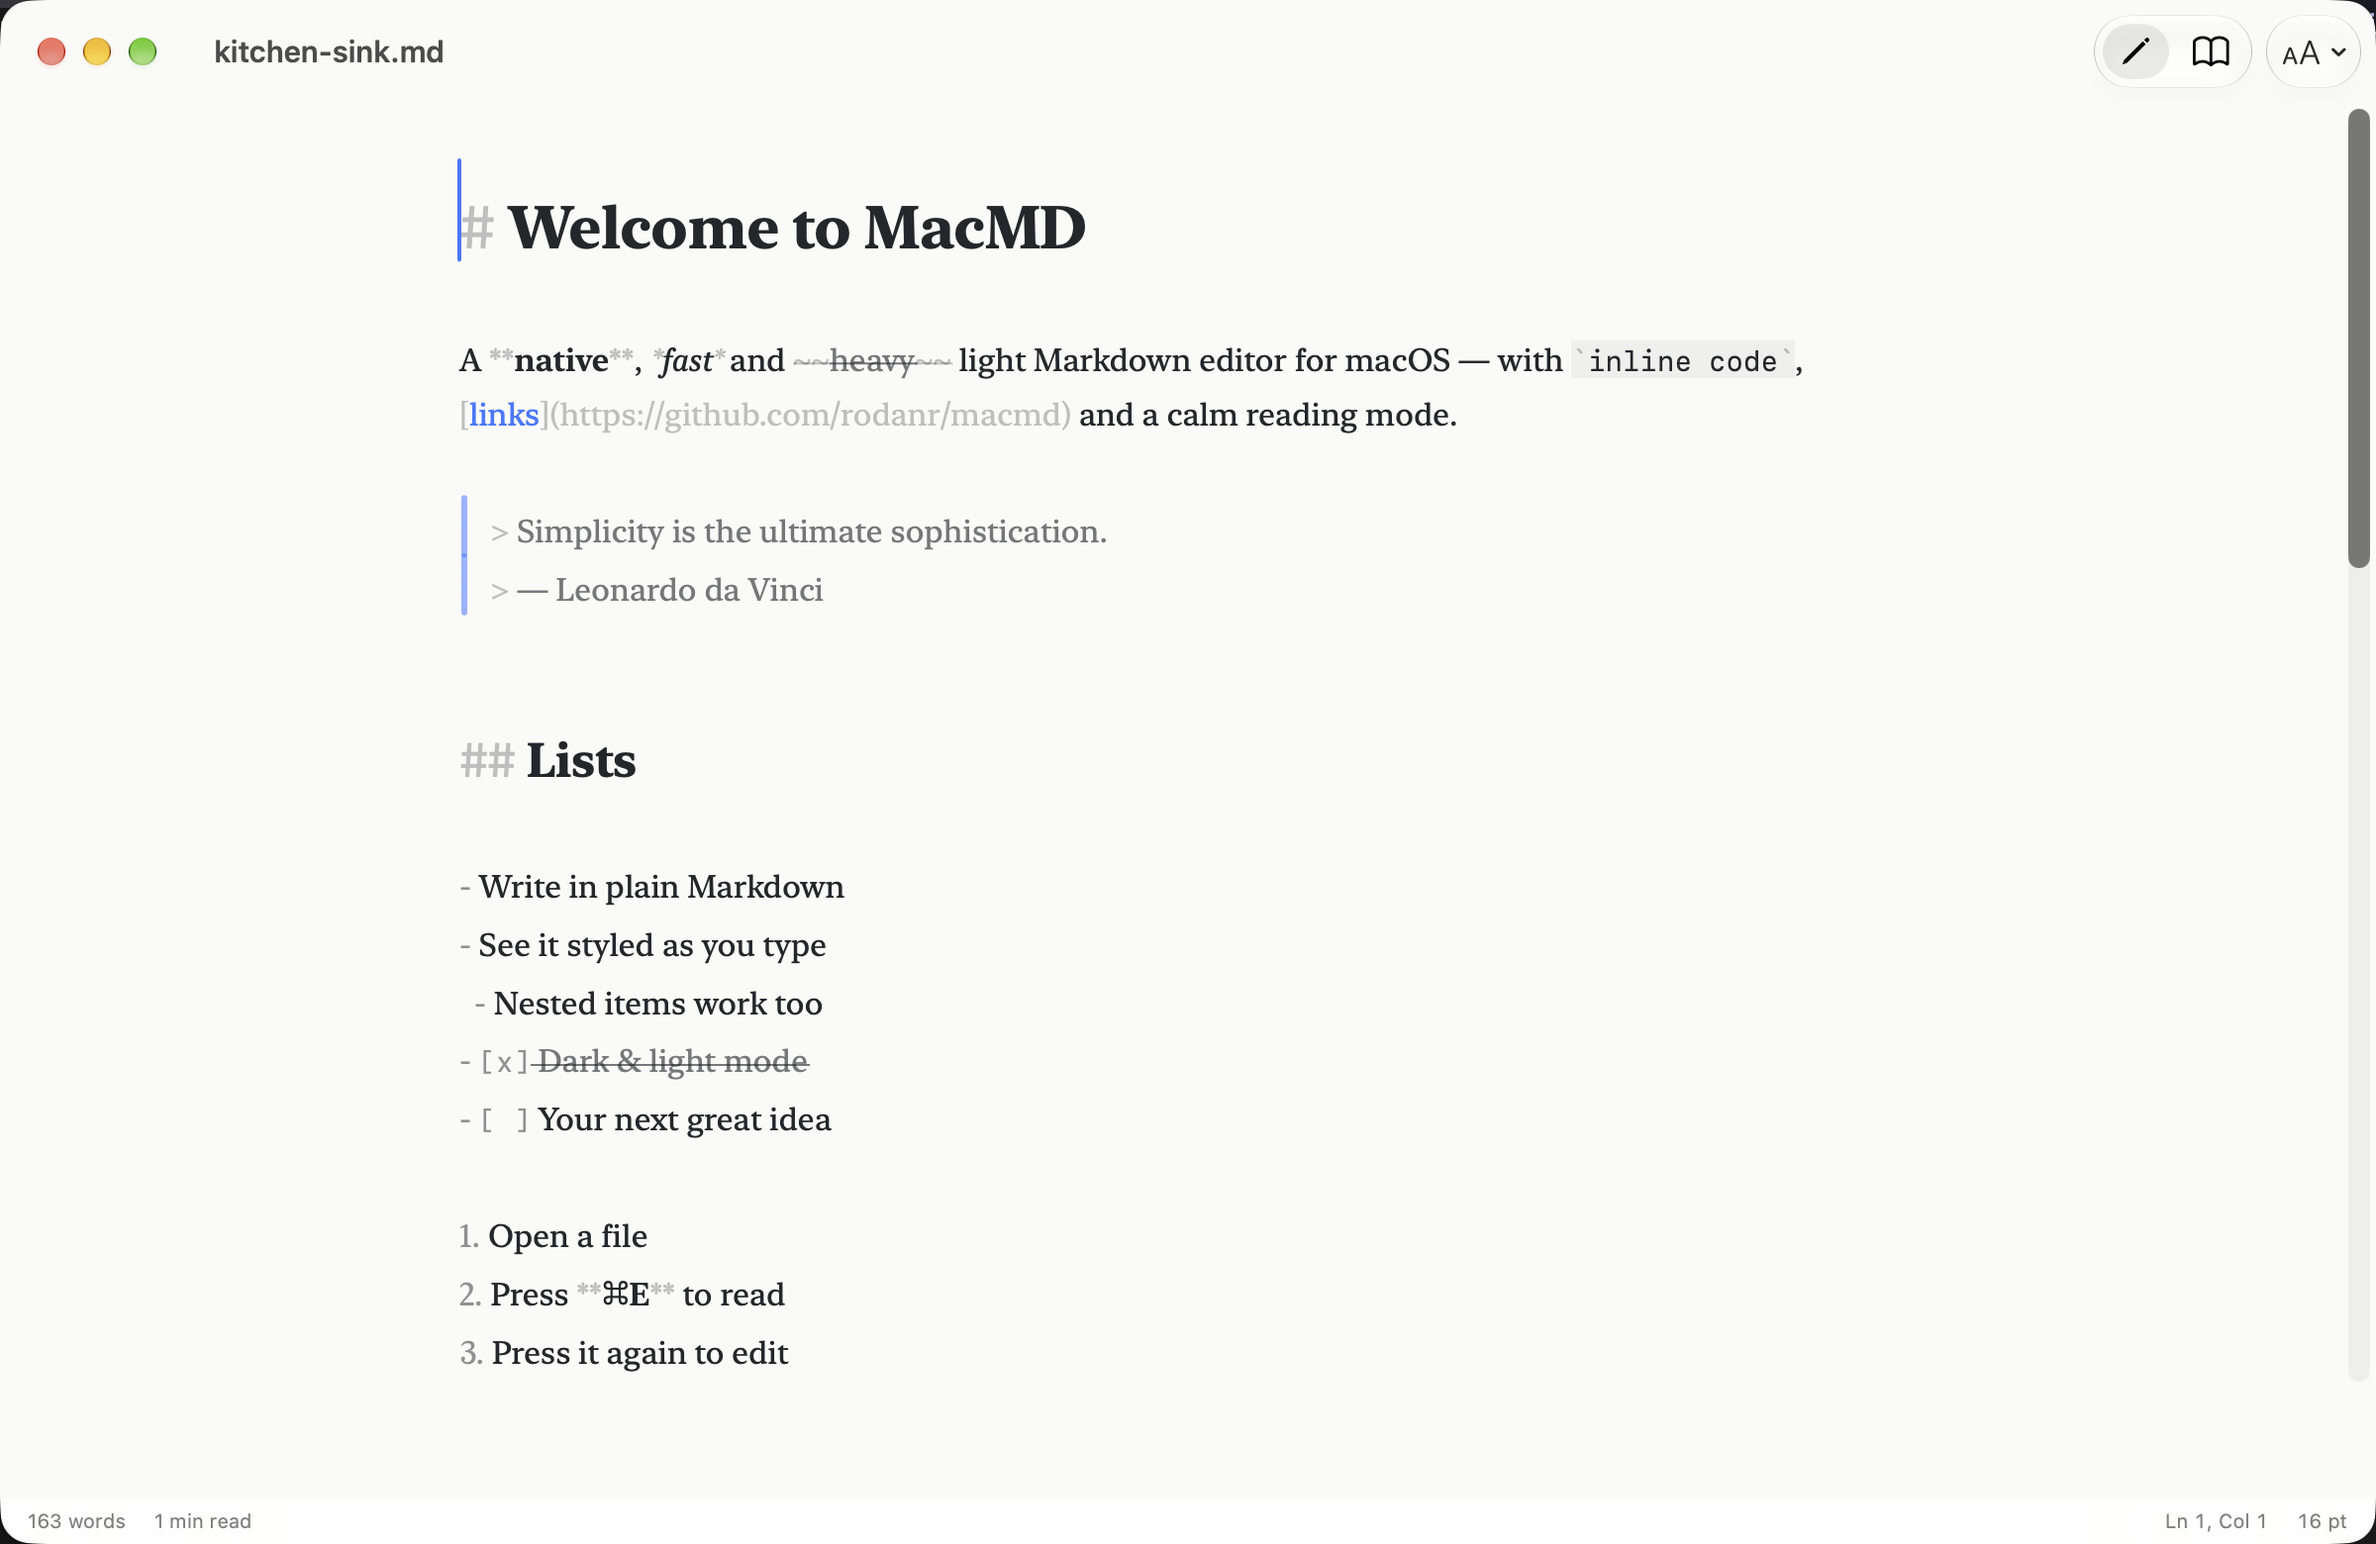
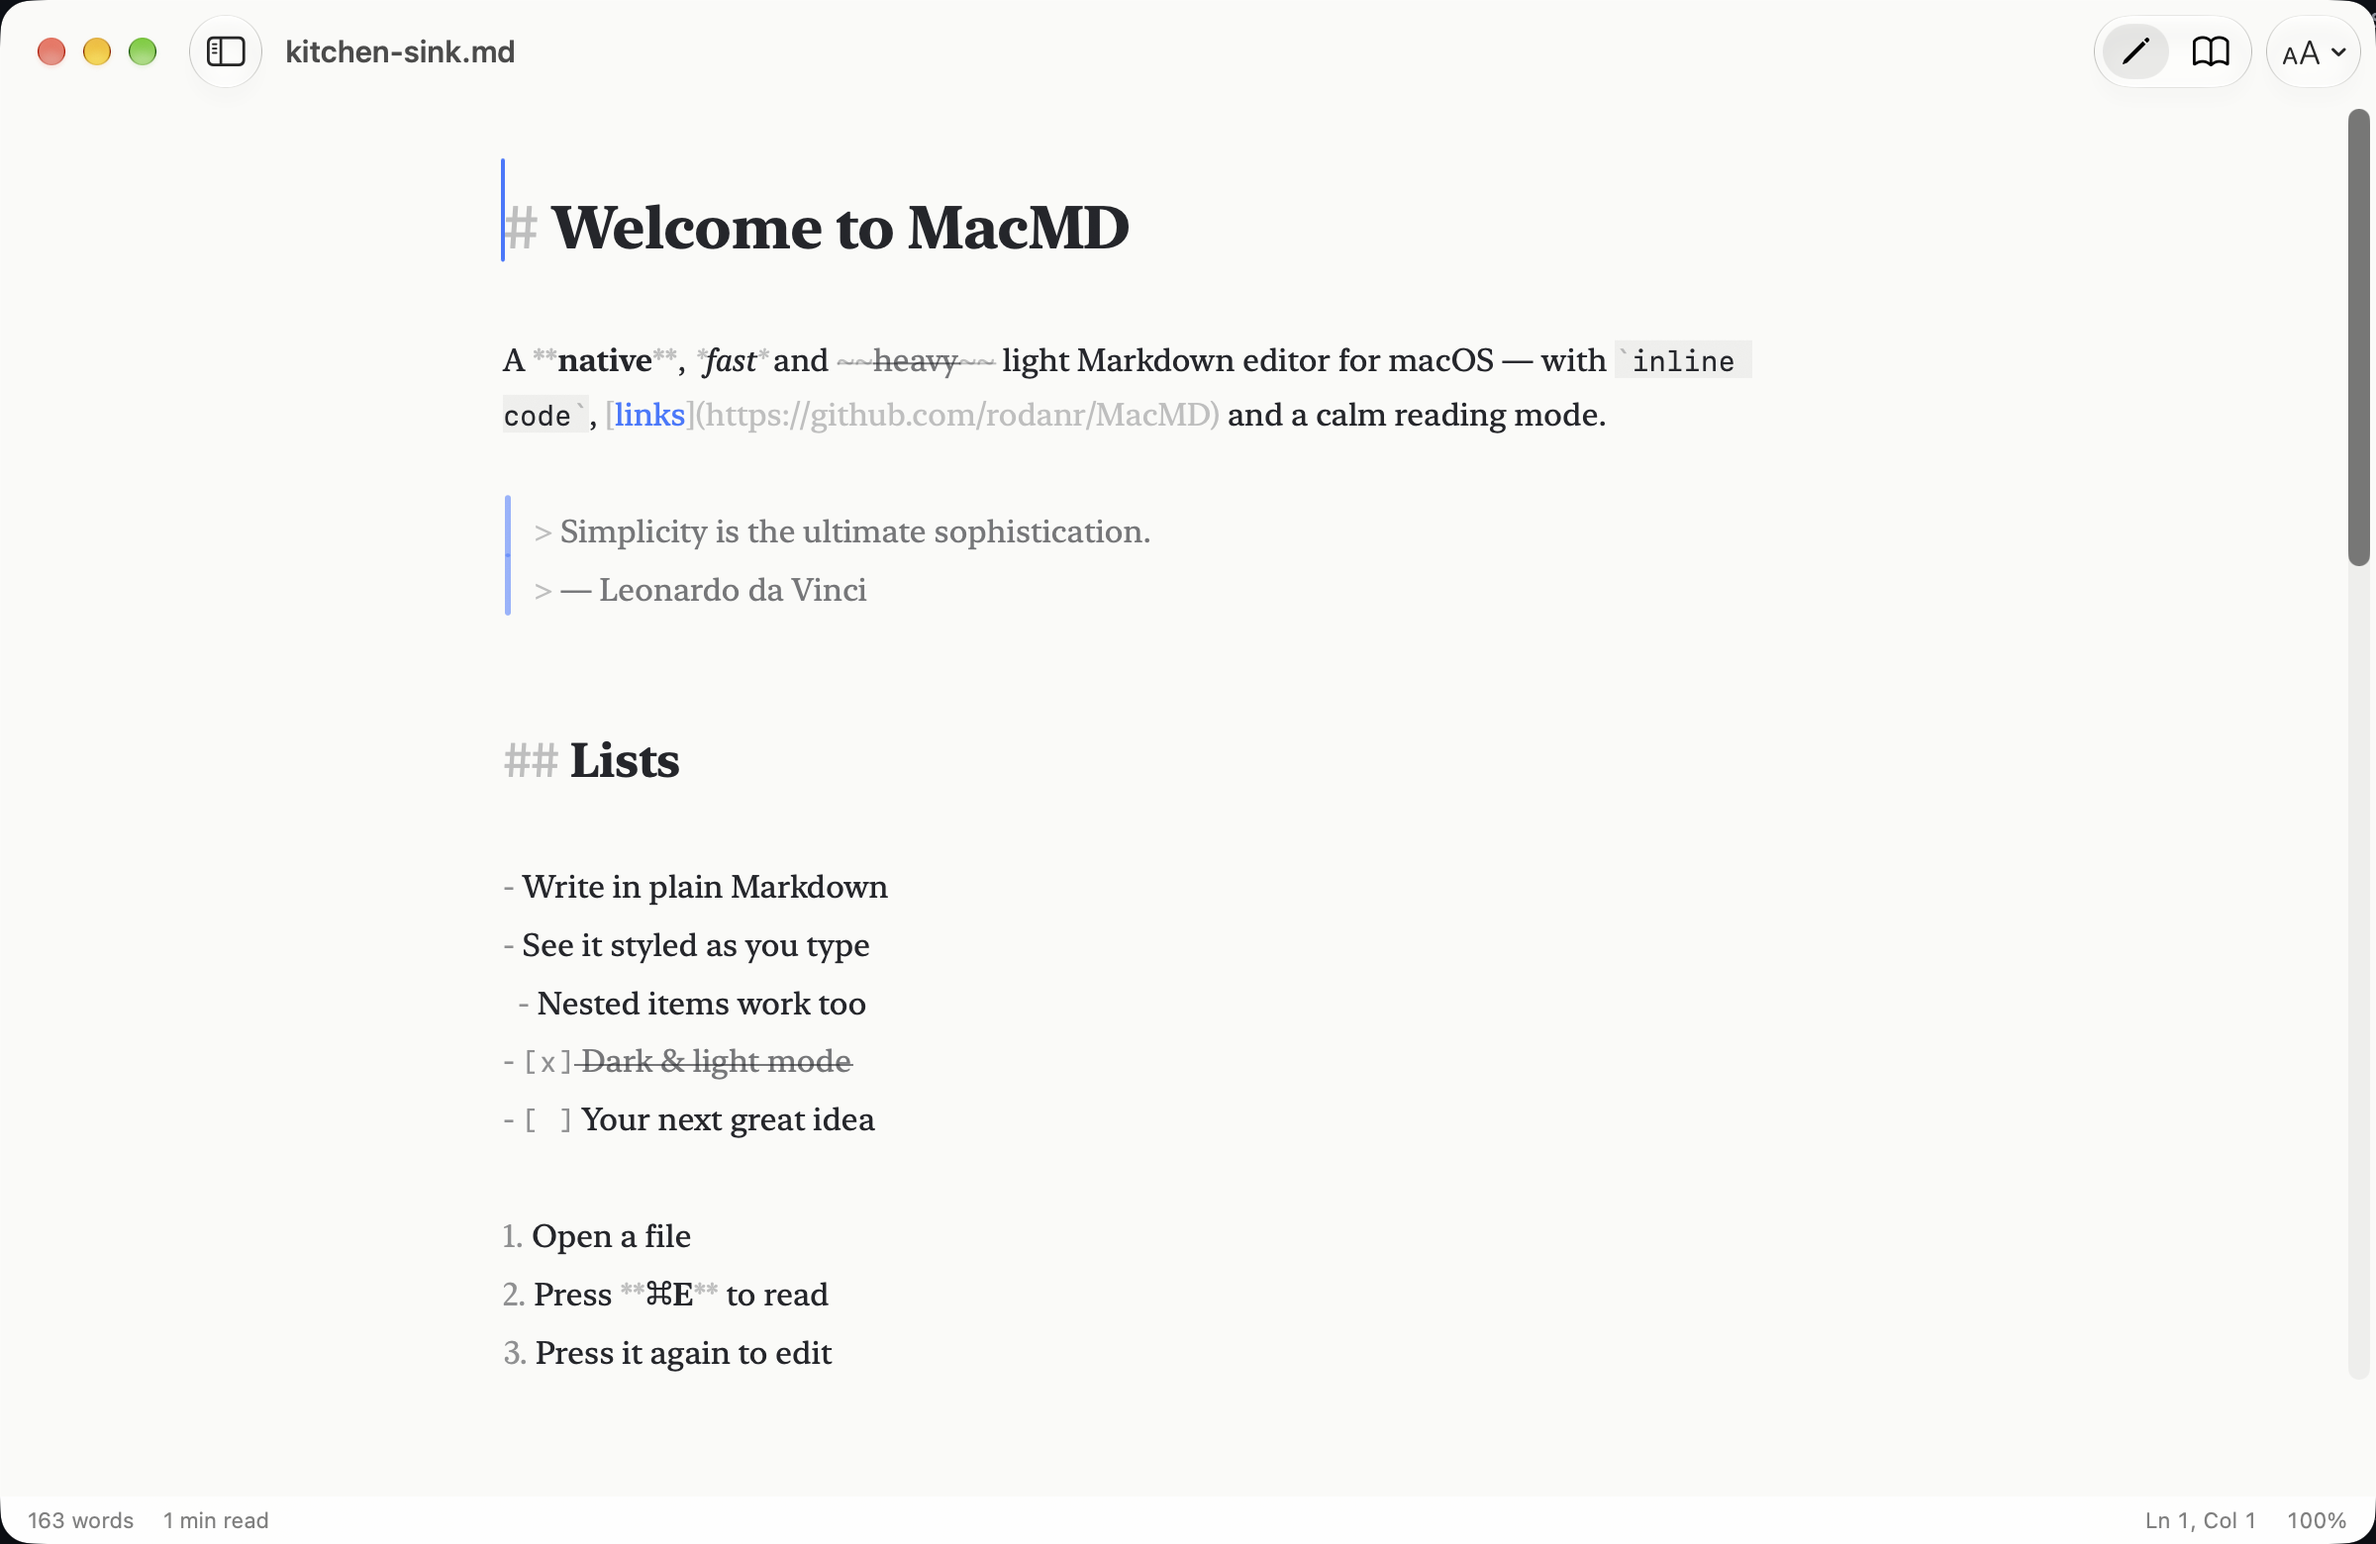
docs: use the MacMD repository name in links and commands
Clone instructions, badges, app links, the update check, changelog links and the
release script now match the repository's name, so `git clone` creates a MacMD
folder. The bundle identifier and the macmd:// scheme stay lowercase by convention.

diff --git a/App/Support/AppInfo.swift b/App/Support/AppInfo.swift
@@ -9,11 +9,11 @@ enum AppInfo {
     static var build: String { info("CFBundleVersion") ?? "0" }
     static var copyright: String { info("NSHumanReadableCopyright") ?? "© \(author)" }
 
-    static let repository = URL(string: "https://github.com/rodanr/macmd")!
-    static let help = URL(string: "https://github.com/rodanr/macmd#readme")!
-    static let issues = URL(string: "https://github.com/rodanr/macmd/issues/new/choose")!
-    static let releases = URL(string: "https://github.com/rodanr/macmd/releases")!
-    static let latestReleaseAPI = URL(string: "https://api.github.com/repos/rodanr/macmd/releases/latest")!
+    static let repository = URL(string: "https://github.com/rodanr/MacMD")!
+    static let help = URL(string: "https://github.com/rodanr/MacMD#readme")!
+    static let issues = URL(string: "https://github.com/rodanr/MacMD/issues/new/choose")!
+    static let releases = URL(string: "https://github.com/rodanr/MacMD/releases")!
+    static let latestReleaseAPI = URL(string: "https://api.github.com/repos/rodanr/MacMD/releases/latest")!
     static let markdownGuide = URL(string: "https://www.markdownguide.org/basic-syntax/")!
 
     private static func info(_ key: String) -> String? {

diff --git a/README.md b/README.md
@@ -8,13 +8,13 @@
 
 Write in plain Markdown that styles itself as you type, then press ⌘E to read it as a beautifully set page.
 
-[![CI](https://github.com/rodanr/macmd/actions/workflows/ci.yml/badge.svg)](https://github.com/rodanr/macmd/actions/workflows/ci.yml)
-[![Release](https://img.shields.io/github/v/release/rodanr/macmd?sort=semver)](https://github.com/rodanr/macmd/releases/latest)
+[![CI](https://github.com/rodanr/MacMD/actions/workflows/ci.yml/badge.svg)](https://github.com/rodanr/MacMD/actions/workflows/ci.yml)
+[![Release](https://img.shields.io/github/v/release/rodanr/MacMD?sort=semver)](https://github.com/rodanr/MacMD/releases/latest)
 ![macOS 26+](https://img.shields.io/badge/macOS-26%2B-black?logo=apple)
 ![Apple silicon](https://img.shields.io/badge/Apple%20silicon-native-black)
 [![License: MIT](https://img.shields.io/badge/license-MIT-blue)](LICENSE)
 
-[**Download**](https://github.com/rodanr/macmd/releases/latest) · [Features](#features) · [Shortcuts](#keyboard-shortcuts) · [Build from source](#build-from-source)
+[**Download**](https://github.com/rodanr/MacMD/releases/latest) · [Features](#features) · [Shortcuts](#keyboard-shortcuts) · [Build from source](#build-from-source)
 
 </div>
 
@@ -59,7 +59,7 @@ Write in plain Markdown that styles itself as you type, then press ⌘E to read 
 
 Requires macOS 26 Tahoe or later on Apple silicon.
 
-1. Download `MacMD-<version>.dmg` from the [latest release](https://github.com/rodanr/macmd/releases/latest).
+1. Download `MacMD-<version>.dmg` from the [latest release](https://github.com/rodanr/MacMD/releases/latest).
    Only download MacMD from this page.
 2. Open the DMG and drag **MacMD** onto **Applications**.
 3. Open MacMD from Applications. The first time, macOS shows **"MacMD" Not Opened**. Click **Done**
@@ -92,13 +92,13 @@ You don't have to take our word for it:
 
 - **The code is open.** Every line is in this repository under the [MIT License](LICENSE).
 - **Releases are built in public.** GitHub Actions builds each DMG from the tagged source; the
-  [build logs](https://github.com/rodanr/macmd/actions/workflows/release.yml) are public.
+  [build logs](https://github.com/rodanr/MacMD/actions/workflows/release.yml) are public.
 - **You can verify your download.** Each release has a SHA-256 checksum and a GitHub build attestation that
   proves the DMG came from this repository's release workflow, unmodified:
 
   ```sh
   shasum -a 256 -c MacMD-<version>.dmg.sha256          # in the folder with both files
-  gh attestation verify MacMD-<version>.dmg --repo rodanr/macmd
+  gh attestation verify MacMD-<version>.dmg --repo rodanr/MacMD
   ```
 
 - **It stays private.** No accounts, analytics or telemetry. MacMD only goes online when you ask it to
@@ -130,7 +130,7 @@ Requirements: macOS 26+, Xcode 26+, and [XcodeGen](https://github.com/yonaskolb/
 
 ```sh
 brew install xcodegen
-git clone https://github.com/rodanr/macmd.git && cd macmd
+git clone https://github.com/rodanr/MacMD.git && cd MacMD
 make run      # generate the project, build, launch
 make test     # unit tests + UI smoke tests
 make dmg      # build/MacMD-<version>.dmg

diff --git a/docs/RELEASING.md b/docs/RELEASING.md
@@ -59,7 +59,7 @@ Without signing secrets, the app is ad-hoc signed and Gatekeeper blocks the firs
 the build; the release notes link to it. Keep those steps in sync with the current macOS dialogs.
 
 Every release also gets a SHA-256 file and a [build provenance attestation](https://docs.github.com/actions/security-for-github-actions/using-artifact-attestations),
-which users check with `gh attestation verify MacMD-X.Y.Z.dmg --repo rodanr/macmd`.
+which users check with `gh attestation verify MacMD-X.Y.Z.dmg --repo rodanr/MacMD`.
 
 ## Enabling Developer ID signing and notarization
 

diff --git a/CODE_OF_CONDUCT.md b/CODE_OF_CONDUCT.md
@@ -6,5 +6,5 @@ In short: be welcoming, be respectful of differing viewpoints, give and accept c
 and focus on what is best for the community. Harassment of any kind is not tolerated.
 
 Report unacceptable behavior privately to the maintainer through a
-[GitHub security advisory](https://github.com/rodanr/macmd/security/advisories/new) or by contacting
+[GitHub security advisory](https://github.com/rodanr/MacMD/security/advisories/new) or by contacting
 [@rodanr](https://github.com/rodanr). All reports are reviewed and kept confidential.

diff --git a/CHANGELOG.md b/CHANGELOG.md
@@ -33,5 +33,5 @@ First public release.
 - About window with license, terms and privacy, and acknowledgements; manual Check for Updates… (the only time
   MacMD contacts GitHub). No analytics or telemetry; see [TERMS.md](TERMS.md).
 
-[Unreleased]: https://github.com/rodanr/macmd/compare/v0.1.0...HEAD
-[0.1.0]: https://github.com/rodanr/macmd/releases/tag/v0.1.0
+[Unreleased]: https://github.com/rodanr/MacMD/compare/v0.1.0...HEAD
+[0.1.0]: https://github.com/rodanr/MacMD/releases/tag/v0.1.0

diff --git a/TERMS.md b/TERMS.md
@@ -51,5 +51,5 @@ affiliated with, sponsored by or endorsed by Apple Inc.
 ## Changes and contact
 
 Changes to these terms are published in this repository and noted in the [changelog](CHANGELOG.md). Questions
-and bug reports go to [GitHub Issues](https://github.com/rodanr/macmd/issues); security reports follow
+and bug reports go to [GitHub Issues](https://github.com/rodanr/MacMD/issues); security reports follow
 [SECURITY.md](SECURITY.md).

diff --git a/CONTRIBUTING.md b/CONTRIBUTING.md
@@ -7,8 +7,8 @@ Thanks for helping make MacMD better. Bug reports, ideas and pull requests are a
 Requirements: macOS 26+, Xcode 26+, [XcodeGen](https://github.com/yonaskolb/XcodeGen) (`brew install xcodegen`).
 
 ```sh
-git clone https://github.com/rodanr/macmd.git
-cd macmd
+git clone https://github.com/rodanr/MacMD.git
+cd MacMD
 make run        # generates the project, builds and launches
 make test       # unit + UI tests
 ```

diff --git a/Packages/MacMDKit/Tests/MacMDKitTests/Fixtures/kitchen-sink.md b/Packages/MacMDKit/Tests/MacMDKitTests/Fixtures/kitchen-sink.md
@@ -1,6 +1,6 @@
 # Welcome to MacMD
 
-A **native**, *fast* and ~~heavy~~ light Markdown editor for macOS — with `inline code`, [links](https://github.com/rodanr/macmd) and a calm reading mode.
+A **native**, *fast* and ~~heavy~~ light Markdown editor for macOS — with `inline code`, [links](https://github.com/rodanr/MacMD) and a calm reading mode.
 
 > Simplicity is the ultimate sophistication.
 > — Leonardo da Vinci

diff --git a/SECURITY.md b/SECURITY.md
@@ -7,7 +7,7 @@ Security fixes go into the latest release.
 ## Reporting a vulnerability
 
 Please **don't open a public issue**. Report it privately through
-[GitHub security advisories](https://github.com/rodanr/macmd/security/advisories/new) with steps to
+[GitHub security advisories](https://github.com/rodanr/MacMD/security/advisories/new) with steps to
 reproduce. You'll get a reply within a week.
 
 ## Scope notes
